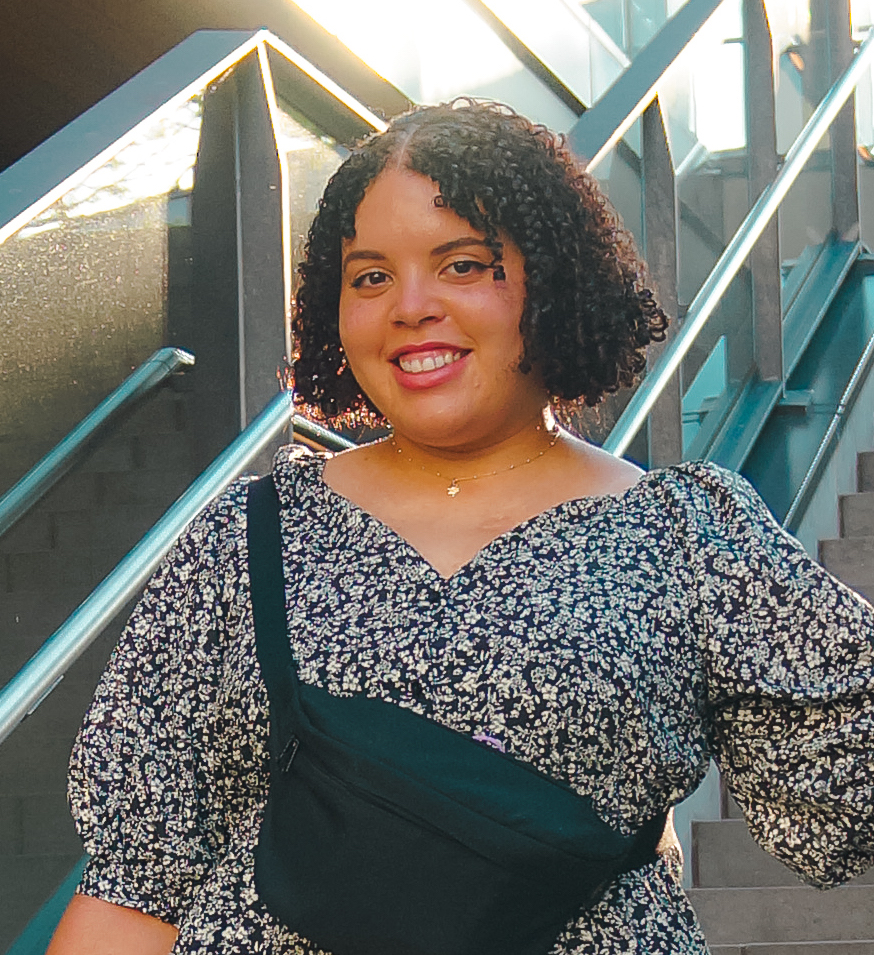
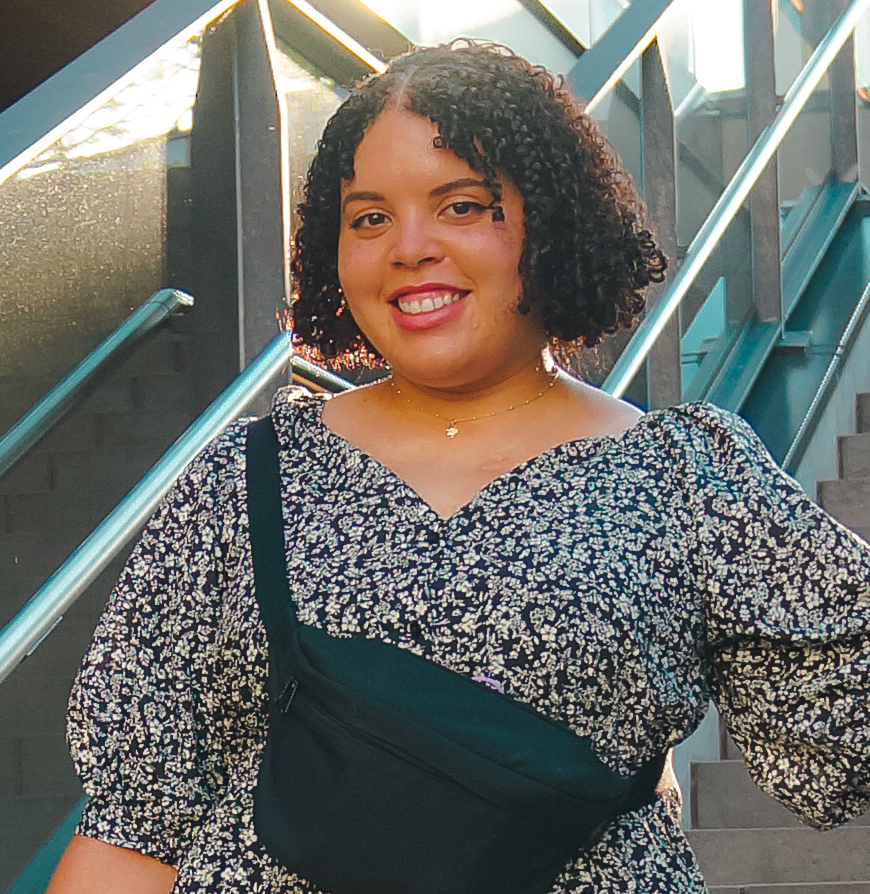
adjusted about image

diff --git a/index.html b/index.html
@@ -197,10 +197,10 @@
       <h3 class="mt-3">About Me</h3>
       <div class="about-container">
         <div class="row">
-          <div class="col-lg-2">
+          <div class="col-lg-3 text-center">
             <img src="/images/BB-about.JPG" class="img-fluid about-image" />
           </div>
-          <div class="col-lg-10 about-bio">
+          <div class="col-lg-9 about-bio">
             <h4 class="fw-bold mb-4">Hey there! I'm Breanda.</h4>
             <p>
               I'm a front-end developer based in Tokyo, Japan, originally from

diff --git a/styles/portfolio.css b/styles/portfolio.css
@@ -180,7 +180,8 @@ footer a {
 }
 
 .about-image {
-  border-radius: 40%;
+  width: 315px;
+  border-radius: 48%;
   padding: 1rem;
 }
 
